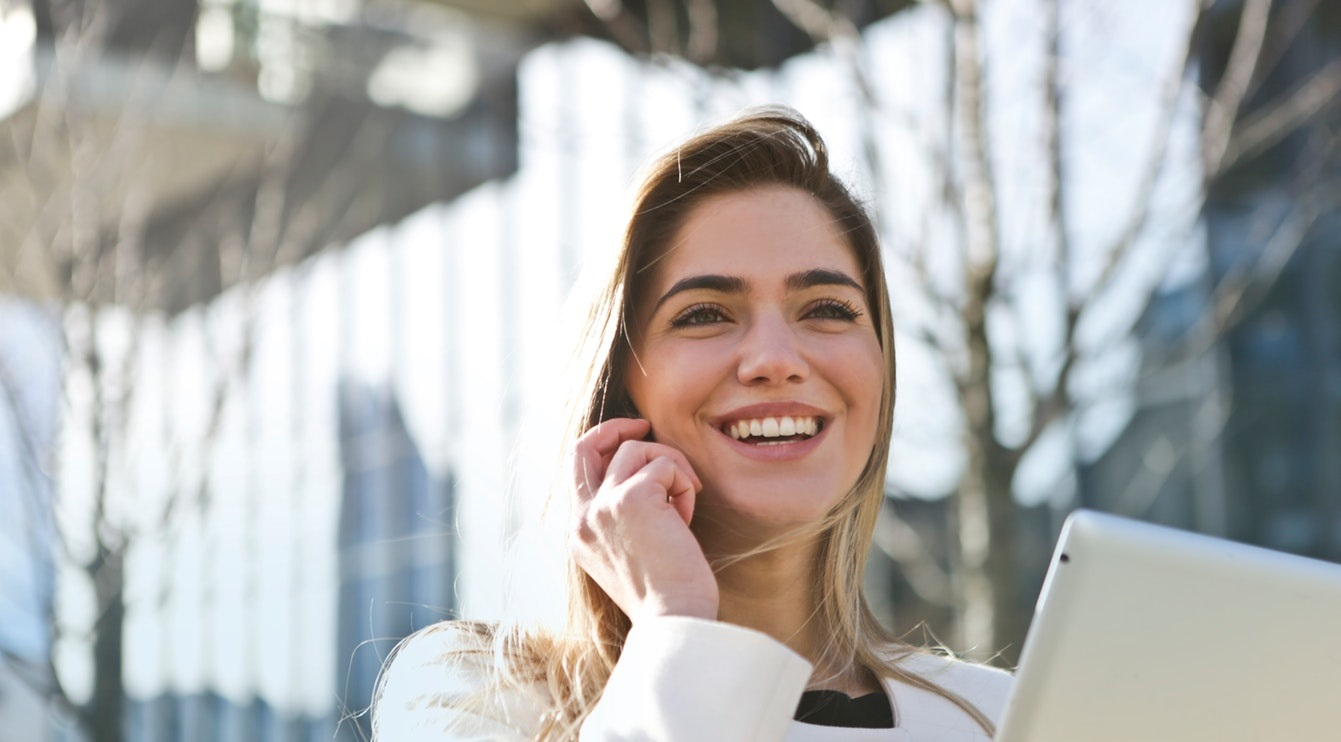
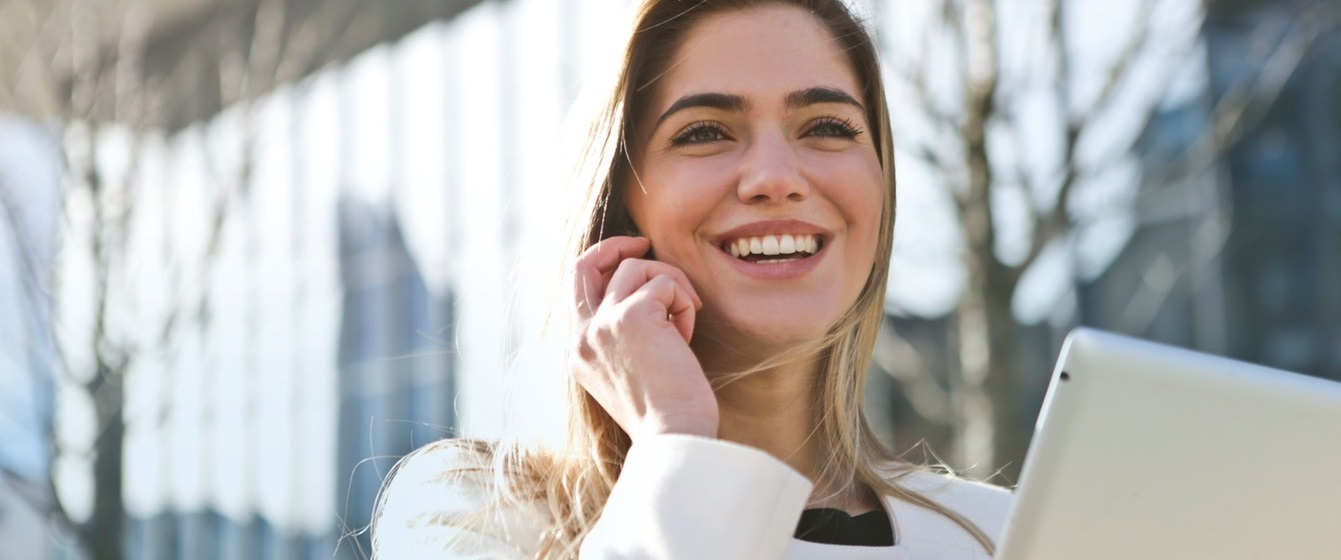
Se modifica nombre de imagenes y se reemplaza imagen de tratamientos

diff --git a/tratamientos.html b/tratamientos.html
@@ -172,7 +172,7 @@
         <div class="col-md-1"></div>
         
         <div class="col-md-8">
-          <img src="imagenes/imagenfondo.jpg" class="img-fluid">
+          <img src="imagenes/tratamientos.jpg" class="img-fluid">
         </div>
         <hr id="implantes"> 
       </div>
